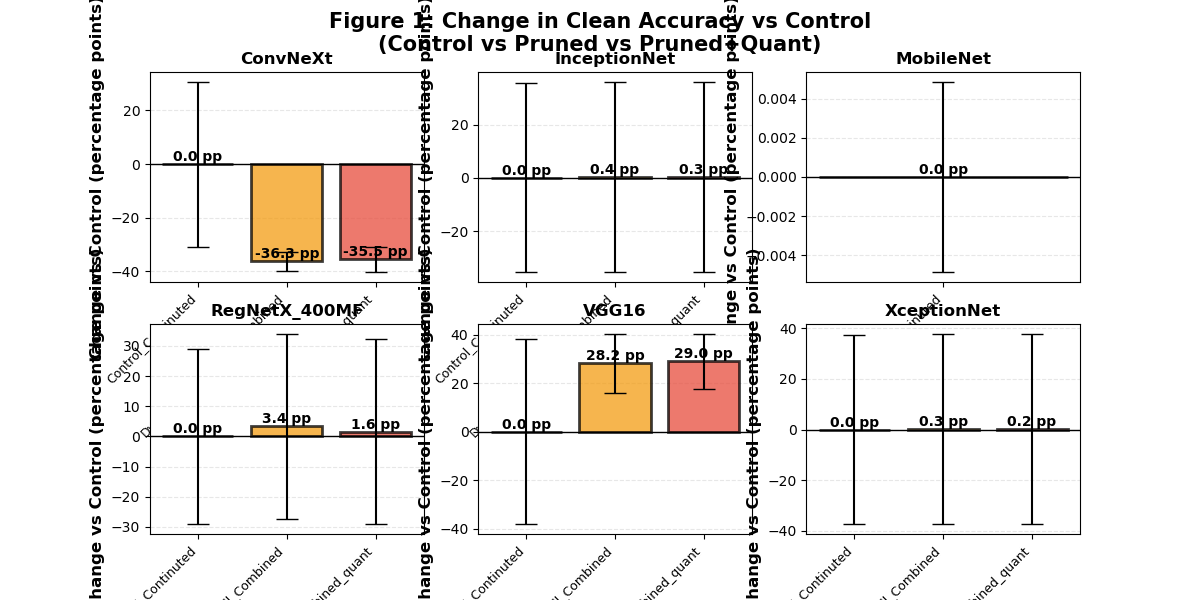
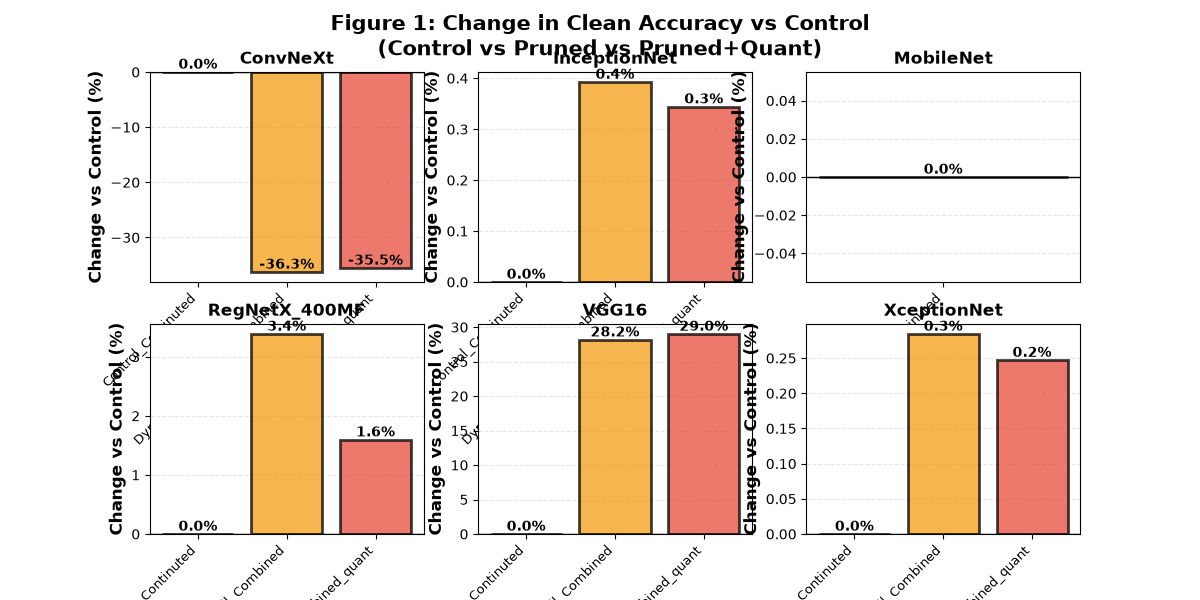
temp

diff --git a/manuscript/Tranfer/adversarial_plotting.py b/manuscript/Tranfer/adversarial_plotting.py
@@ -174,6 +174,8 @@ class AdversarialPlotter:
         plot_data['clean_accuracy_delta_from_control'] = (
             plot_data['clean_accuracy_mean'] - plot_data['control_clean_accuracy']
         )
+        # For the control variant the delta is zero and the error bar should be zero as well.
+        plot_data.loc[plot_data['variant'] == control_variant, 'clean_accuracy_std'] = 0.0
         plot_data.to_csv(self.output_dir / 'Figure_1_clean_accuracy_data.csv', index=False)
 
         fig, axes = plt.subplots(2, 3, figsize=(12, 6))
@@ -195,17 +197,17 @@ class AdversarialPlotter:
             deltas = model_data['clean_accuracy_delta_from_control'].values
             stds = model_data['clean_accuracy_std'].fillna(0).values
 
-            bars = ax.bar(variants, deltas, yerr=stds, capsize=8, alpha=0.75,
+            bars = ax.bar(variants, deltas, alpha=0.75,
                          color=[colors.get(v, '#95a5a6') for v in variants],
                          edgecolor='black', linewidth=2)
 
             for bar, delta in zip(bars, deltas):
                 height = bar.get_height()
                 ax.text(bar.get_x() + bar.get_width()/2., height,
-                       f'{delta:.1f} pp', ha='center', va='bottom', fontweight='bold', fontsize=10)
+                         f'{delta:.1f}%', ha='center', va='bottom', fontweight='bold', fontsize=10)
 
             ax.axhline(0, color='black', linewidth=1.0)
-            ax.set_ylabel('Change vs Control (percentage points)', fontweight='bold')
+            ax.set_ylabel('Change vs Control (%)', fontweight='bold')
             ax.set_title(f'{model}', fontweight='bold', fontsize=12)
             ax.grid(True, alpha=0.3, axis='y', linestyle='--')
             ax.set_axisbelow(True)
@@ -216,8 +218,8 @@ class AdversarialPlotter:
         plt.close()
 
     def plot_attack_vulnerability_increase(self, df: pd.DataFrame):
-        """Figure 2: Change in attack success rate relative to the control variant."""
-        logger.info("Generating Figure 2: Attack Vulnerability by Variant")
+        """Figure 2: Change in attack success rate relative to the control variant, broken out per model."""
+        logger.info("Generating Figure 2: Attack Vulnerability by Variant (per model)")
         df = self._normalize_summary_df(df)
 
         if df.empty or 'attack_success_rate' not in df.columns:
@@ -229,47 +231,63 @@ class AdversarialPlotter:
             logger.warning("  ⚠ No variant information found for baseline comparison")
             return
 
-        attack_variant = df.groupby(['attack', 'variant'], as_index=False).agg(
+        # Compute delta ASR per model, attack, variant
+        attack_variant = df.groupby(['model', 'attack', 'variant'], as_index=False).agg(
             mean_attack_success_rate=('attack_success_rate', 'mean'),
             std_attack_success_rate=('attack_success_rate', 'std'),
         )
-        control_by_attack = (
+        control_by_model_attack = (
             attack_variant[attack_variant['variant'] == control_variant]
-            [['attack', 'mean_attack_success_rate']]
+            [['model', 'attack', 'mean_attack_success_rate']]
             .rename(columns={'mean_attack_success_rate': 'control_attack_success_rate'})
         )
-        plot_data = attack_variant.merge(control_by_attack, on='attack', how='left')
+        plot_data = attack_variant.merge(control_by_model_attack, on=['model', 'attack'], how='left')
         plot_data['asr_delta_from_control'] = (
             plot_data['mean_attack_success_rate'] - plot_data['control_attack_success_rate']
         )
         plot_data.to_csv(self.output_dir / 'Figure_2_attack_vulnerability_data.csv', index=False)
 
-        pivot_mean = plot_data.pivot(index='attack', columns='variant', values='asr_delta_from_control')
-        pivot_std = plot_data.pivot(index='attack', columns='variant', values='std_attack_success_rate')
-
-        fig, ax = plt.subplots(figsize=(14, 8))
+        # Create a grid of sub‑plots – one per model (max 6 models → 2×3 grid)
+        models = sorted(df['model'].unique())
+        n_models = len(models)
+        ncols = 3
+        nrows = (n_models + ncols - 1) // ncols
+        fig, axes = plt.subplots(nrows, ncols, figsize=(14, 4 * nrows), squeeze=False)
         colors = VARIANT_COLORS
-        x = np.arange(len(pivot_mean.index))
-        width = 0.25
 
-        for i, variant in enumerate(sorted(pivot_mean.columns)):
-            if variant in pivot_mean.columns:
-                ax.bar(x + i * width, pivot_mean[variant], width,
-                       label=variant, alpha=0.8,
-                       color=colors.get(variant, '#95a5a6'),
-                       edgecolor='black', linewidth=1.5,
-                       yerr=pivot_std[variant], capsize=4)
+        for idx, model in enumerate(models):
+            ax = axes[idx // ncols, idx % ncols]
+            model_data = plot_data[plot_data['model'] == model]
+            if model_data.empty:
+                ax.text(0.5, 0.5, f'{model}\n(No data)', ha='center', va='center')
+                ax.set_title(model)
+                continue
 
-        ax.axhline(0, color='black', linewidth=1.0)
-        ax.set_xlabel('Attack Method', fontweight='bold', fontsize=12)
-        ax.set_ylabel('Change in ASR vs Control (percentage points)', fontweight='bold', fontsize=12)
-        ax.set_title('Figure 2: Change in ASR vs Control\n(Higher = More Vulnerable)',
-                     fontsize=14, fontweight='bold', pad=20)
-        ax.set_xticks(x + width)
-        ax.set_xticklabels(pivot_mean.index, rotation=45, ha='right', fontsize=10)
-        ax.legend(loc='upper right', fontsize=11, framealpha=0.95)
-        ax.grid(True, alpha=0.3, axis='y', linestyle='--')
-        ax.set_axisbelow(True)
+            pivot_mean = model_data.pivot(index='attack', columns='variant', values='asr_delta_from_control')
+            pivot_std = model_data.pivot(index='attack', columns='variant', values='std_attack_success_rate')
+            x = np.arange(len(pivot_mean.index))
+            width = 0.25
+            for i, variant in enumerate(sorted(pivot_mean.columns)):
+                if variant in pivot_mean.columns:
+                          ax.bar(x + i * width, pivot_mean[variant], width,
+                              label=variant, alpha=0.8,
+                              color=colors.get(variant, '#95a5a6'),
+                              edgecolor='black', linewidth=1.5)
+            ax.axhline(0, color='black', linewidth=1.0)
+            ax.set_xlabel('Attack', fontsize=10)
+            ax.set_ylabel('Δ ASR (pp)', fontsize=10)
+            ax.set_title(model, fontsize=11)
+            ax.set_xticks(x + width)
+            ax.set_xticklabels(pivot_mean.index, rotation=45, ha='right', fontsize=8)
+            ax.grid(True, alpha=0.3, axis='y', linestyle='--')
+            ax.set_axisbelow(True)
+            if idx == 0:
+                ax.legend(loc='upper right', fontsize=8, framealpha=0.95)
+
+        # Hide any unused sub‑plots
+        total_axes = nrows * ncols
+        for empty_idx in range(n_models, total_axes):
+            fig.delaxes(axes[empty_idx // ncols, empty_idx % ncols])
 
         plt.tight_layout()
         fig.savefig(self.output_dir / 'Figure_2_attack_vulnerability.png', dpi=120)
@@ -277,109 +295,109 @@ class AdversarialPlotter:
         plt.close()
 
     def plot_variant_summary_statistics(self, df: pd.DataFrame):
-        """Figure 3: Summary statistics for Control vs Pruned vs Pruned+Quant."""
-        logger.info("Generating Figure 3: Variant Summary Statistics")
+        """Figure 3: Summary statistics for Control vs Pruned vs Pruned+Quant, split per model."""
+        logger.info("Generating Figure 3: Variant Summary Statistics (per model)")
         df = self._normalize_summary_df(df)
 
         if df.empty:
             return
-        
-        fig, axes = plt.subplots(2, 2, figsize=(16, 10))
-        fig.suptitle('Figure 3: Summary Comparison Across All Models\n(Control vs Pruned vs Pruned+Quant)', 
-                     fontsize=15, fontweight='bold')
 
         colors = VARIANT_COLORS
-        
-        # Plot 1: Clean Accuracy
-        if 'clean_accuracy' in df.columns:
-            ax = axes[0, 0]
-            clean_stats = df.groupby('variant')['clean_accuracy'].agg(['mean', 'std']).reset_index()
-            variants = clean_stats['variant'].values
-            means = clean_stats['mean'].values
-            stds = clean_stats['std'].values
-            
-            bars = ax.bar(variants, means, yerr=stds, capsize=10, alpha=0.75,
+        models = sorted(df['model'].unique())
+        n_models = len(models)
+        ncols = 3
+        nrows = (n_models + ncols - 1) // ncols
+
+        # Create a grid where each cell will contain a 2×2 block of sub‑plots for a model.
+        # We'll generate a separate figure for each model to keep layout simple.
+        for model in models:
+            model_df = df[df['model'] == model]
+            if model_df.empty:
+                continue
+
+            fig, axes = plt.subplots(2, 2, figsize=(16, 10))
+            fig.suptitle(f'Figure 3: Summary for {model}\n(Control vs Pruned vs Pruned+Quant)',
+                         fontsize=15, fontweight='bold')
+
+            # Plot 1: Clean Accuracy
+            if 'clean_accuracy' in model_df.columns:
+                ax = axes[0, 0]
+                clean_stats = model_df.groupby('variant')['clean_accuracy'].agg(['mean', 'std']).reset_index()
+                variants = clean_stats['variant'].values
+                means = clean_stats['mean'].values
+                stds = clean_stats['std'].values
+                bars = ax.bar(variants, means, alpha=0.75,
+                               color=[colors.get(v, '#95a5a6') for v in variants],
+                               edgecolor='black', linewidth=2)
+                for bar, mean in zip(bars, means):
+                    ax.text(bar.get_x() + bar.get_width()/2., bar.get_height(),
+                           f'{mean:.1f}%', ha='center', va='bottom', fontweight='bold')
+                ax.set_ylabel('Clean Accuracy (%)', fontweight='bold', fontsize=11)
+                ax.set_title('Clean Accuracy', fontweight='bold')
+                ax.set_ylim([0, 105])
+                ax.grid(True, alpha=0.3, axis='y', linestyle='--')
+                plt.setp(ax.xaxis.get_majorticklabels(), rotation=45, ha='right')
+
+            # Plot 2: Attack Success Rate
+            if 'attack_success_rate' in model_df.columns:
+                ax = axes[0, 1]
+                attack_stats = model_df.groupby('variant')['attack_success_rate'].agg(['mean', 'std']).reset_index()
+                variants = attack_stats['variant'].values
+                means = attack_stats['mean'].values
+                stds = attack_stats['std'].values
+                bars = ax.bar(variants, means, alpha=0.75,
+                               color=[colors.get(v, '#95a5a6') for v in variants],
+                               edgecolor='black', linewidth=2)
+                for bar, mean in zip(bars, means):
+                    ax.text(bar.get_x() + bar.get_width()/2., bar.get_height(),
+                           f'{mean:.1f}%', ha='center', va='bottom', fontweight='bold')
+                ax.set_ylabel('Attack Success Rate (%)', fontweight='bold', fontsize=11)
+                ax.set_title('Attack Success Rate', fontweight='bold')
+                ax.set_ylim([0, 105])
+                ax.grid(True, alpha=0.3, axis='y', linestyle='--')
+                plt.setp(ax.xaxis.get_majorticklabels(), rotation=45, ha='right')
+
+            # Plot 3: Sample Count
+            ax = axes[1, 0]
+            counts = model_df.groupby('variant').size().reset_index(name='count')
+            variants = counts['variant'].values
+            counts_vals = counts['count'].values
+            bars = ax.bar(variants, counts_vals, alpha=0.75,
                          color=[colors.get(v, '#95a5a6') for v in variants],
                          edgecolor='black', linewidth=2)
-            
-            for bar, mean in zip(bars, means):
+            for bar, count in zip(bars, counts_vals):
                 ax.text(bar.get_x() + bar.get_width()/2., bar.get_height(),
-                       f'{mean:.1f}%', ha='center', va='bottom', fontweight='bold')
-            
-            ax.set_ylabel('Clean Accuracy (%)', fontweight='bold', fontsize=11)
-            ax.set_title('Clean Accuracy (Unpruned Performance)', fontweight='bold')
-            ax.set_ylim([0, 105])
+                       f'{count:,}', ha='center', va='bottom', fontweight='bold')
+            ax.set_ylabel('Sample Count', fontweight='bold', fontsize=11)
+            ax.set_title('Data Coverage', fontweight='bold')
             ax.grid(True, alpha=0.3, axis='y', linestyle='--')
             plt.setp(ax.xaxis.get_majorticklabels(), rotation=45, ha='right')
-        
-        # Plot 2: Attack Success Rate
-        if 'attack_success_rate' in df.columns:
-            ax = axes[0, 1]
-            attack_stats = df.groupby('variant')['attack_success_rate'].agg(['mean', 'std']).reset_index()
-            variants = attack_stats['variant'].values
-            means = attack_stats['mean'].values
-            stds = attack_stats['std'].values
-            
-            bars = ax.bar(variants, means, yerr=stds, capsize=10, alpha=0.75,
+
+            # Plot 4: Models Tested (will always be 1 for a single model, but kept for consistency)
+            ax = axes[1, 1]
+            model_counts = model_df.groupby('variant')['model'].nunique().reset_index()
+            variants = model_counts['variant'].values
+            model_vals = model_counts['model'].values
+            bars = ax.bar(variants, model_vals, alpha=0.75,
                          color=[colors.get(v, '#95a5a6') for v in variants],
                          edgecolor='black', linewidth=2)
-            
-            for bar, mean in zip(bars, means):
+            for bar, cnt in zip(bars, model_vals):
                 ax.text(bar.get_x() + bar.get_width()/2., bar.get_height(),
-                       f'{mean:.1f}%', ha='center', va='bottom', fontweight='bold')
-            
-            ax.set_ylabel('Attack Success Rate (%)', fontweight='bold', fontsize=11)
-            ax.set_title('Attack Success Rate (Vulnerability)', fontweight='bold')
-            ax.set_ylim([0, 105])
+                       f'{cnt}', ha='center', va='bottom', fontweight='bold')
+            ax.set_ylabel('Number of Models', fontweight='bold', fontsize=11)
+            ax.set_title('Model Coverage', fontweight='bold')
             ax.grid(True, alpha=0.3, axis='y', linestyle='--')
             plt.setp(ax.xaxis.get_majorticklabels(), rotation=45, ha='right')
-        
-        # Plot 3: Sample Count
-        ax = axes[1, 0]
-        counts = df.groupby('variant').size().reset_index(name='count')
-        variants = counts['variant'].values
-        counts_vals = counts['count'].values
-        
-        bars = ax.bar(variants, counts_vals, alpha=0.75,
-                     color=[colors.get(v, '#95a5a6') for v in variants],
-                     edgecolor='black', linewidth=2)
-        
-        for bar, count in zip(bars, counts_vals):
-            ax.text(bar.get_x() + bar.get_width()/2., bar.get_height(),
-                   f'{count:,}', ha='center', va='bottom', fontweight='bold')
-        
-        ax.set_ylabel('Sample Count', fontweight='bold', fontsize=11)
-        ax.set_title('Data Coverage by Variant', fontweight='bold')
-        ax.grid(True, alpha=0.3, axis='y', linestyle='--')
-        plt.setp(ax.xaxis.get_majorticklabels(), rotation=45, ha='right')
-        
-        # Plot 4: Models Tested
-        ax = axes[1, 1]
-        model_counts = df.groupby('variant')['model'].nunique().reset_index()
-        variants = model_counts['variant'].values
-        model_vals = model_counts['model'].values
-        
-        bars = ax.bar(variants, model_vals, alpha=0.75,
-                     color=[colors.get(v, '#95a5a6') for v in variants],
-                     edgecolor='black', linewidth=2)
-        
-        for bar, count in zip(bars, model_vals):
-            ax.text(bar.get_x() + bar.get_width()/2., bar.get_height(),
-                   f'{count}', ha='center', va='bottom', fontweight='bold', fontsize=12)
-        
-        ax.set_ylabel('Number of Models', fontweight='bold', fontsize=11)
-        ax.set_title('Model Coverage', fontweight='bold')
-        ax.grid(True, alpha=0.3, axis='y', linestyle='--')
-        plt.setp(ax.xaxis.get_majorticklabels(), rotation=45, ha='right')
-        
-        plt.tight_layout()
-        fig.savefig(self.output_dir / 'Figure_3_summary_statistics.png', dpi=120)
-        logger.info(f"  ✓ Saved Figure 3\n")
-        plt.close()
+
+            plt.tight_layout()
+            fig_path = self.output_dir / f'Figure_3_{model}_summary_statistics.png'
+            fig.savefig(fig_path, dpi=120)
+            logger.info(f"  ✓ Saved Figure 3 for {model}\n")
+            plt.close()
 
     def plot_accuracy_robustness_correlation(self, df: pd.DataFrame):
-        """Figure 4: Correlation between clean-accuracy change and ASR change vs control."""
-        logger.info("Generating Figure 4: Clean Accuracy vs Vulnerability Correlation")
+        """Figure 4: Correlation between clean‑accuracy change and ASR change vs control, broken out per model."""
+        logger.info("Generating Figure 4: Clean Accuracy vs Vulnerability Correlation (per model)")
         df = self._normalize_summary_df(df)
 
         if df.empty or 'clean_accuracy' not in df.columns or 'attack_success_rate' not in df.columns:
@@ -414,29 +432,45 @@ class AdversarialPlotter:
         plot_data.to_csv(self.output_dir / 'Figure_4_accuracy_vulnerability_data.csv', index=False)
 
         if plot_data.empty:
-            logger.warning("  ⚠ Figure 4 has no non-control variant data to plot")
+            logger.warning("  ⚠ Figure 4 has no non‑control variant data to plot")
             return
 
-        fig, ax = plt.subplots(figsize=(12, 8))
+        # Create a grid of sub‑plots – one per model (max 6 → 2×3)
+        models = sorted(df['model'].unique())
+        n_models = len(models)
+        ncols = 3
+        nrows = (n_models + ncols - 1) // ncols
+        fig, axes = plt.subplots(nrows, ncols, figsize=(14, 4 * nrows), squeeze=False)
         colors = VARIANT_COLORS
 
-        for variant in sorted(plot_data['variant'].unique()):
-            variant_data = plot_data[plot_data['variant'] == variant]
-            ax.scatter(variant_data['clean_accuracy_delta_from_control'],
-                       variant_data['asr_delta_from_control'],
-                       s=250, alpha=0.7, label=variant,
-                       color=colors.get(variant, '#95a5a6'),
-                       edgecolors='black', linewidth=2)
+        for idx, model in enumerate(models):
+            ax = axes[idx // ncols, idx % ncols]
+            model_data = plot_data[plot_data['model'] == model]
+            if model_data.empty:
+                ax.text(0.5, 0.5, f'{model}\n(No data)', ha='center', va='center')
+                ax.set_title(model)
+                continue
+            for variant in sorted(model_data['variant'].unique()):
+                variant_data = model_data[model_data['variant'] == variant]
+                ax.scatter(variant_data['clean_accuracy_delta_from_control'],
+                           variant_data['asr_delta_from_control'],
+                           s=150, alpha=0.7, label=variant,
+                           color=colors.get(variant, '#95a5a6'),
+                           edgecolors='black', linewidth=1.5)
+            ax.axhline(0, color='black', linewidth=1.0, alpha=0.8)
+            ax.axvline(0, color='black', linewidth=1.0, alpha=0.8)
+            ax.set_xlabel('Δ Clean Acc (pp)', fontsize=10)
+            ax.set_ylabel('Δ ASR (pp)', fontsize=10)
+            ax.set_title(model, fontsize=11)
+            ax.grid(True, alpha=0.3, linestyle='--')
+            ax.set_axisbelow(True)
+            if idx == 0:
+                ax.legend(loc='best', fontsize=8, framealpha=0.95)
 
-        ax.axhline(0, color='black', linewidth=1.0, alpha=0.8)
-        ax.axvline(0, color='black', linewidth=1.0, alpha=0.8)
-        ax.set_xlabel('Change in Clean Accuracy vs Control (percentage points)', fontweight='bold', fontsize=12)
-        ax.set_ylabel('Change in ASR vs Control (percentage points)', fontweight='bold', fontsize=12)
-        ax.set_title('Figure 4: Accuracy Change vs Vulnerability Change\nRelative to the Control Variant',
-                     fontsize=14, fontweight='bold', pad=20)
-        ax.grid(True, alpha=0.3, linestyle='--')
-        ax.set_axisbelow(True)
-        ax.legend(loc='best', fontsize=11, framealpha=0.95)
+        # Hide any unused axes
+        total_axes = nrows * ncols
+        for empty_idx in range(n_models, total_axes):
+            fig.delaxes(axes[empty_idx // ncols, empty_idx % ncols])
 
         plt.tight_layout()
         fig.savefig(self.output_dir / 'Figure_4_accuracy_vulnerability_correlation.png', dpi=120)
